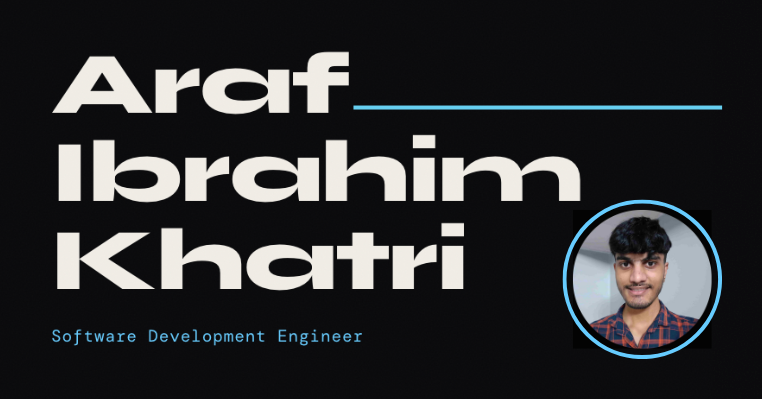
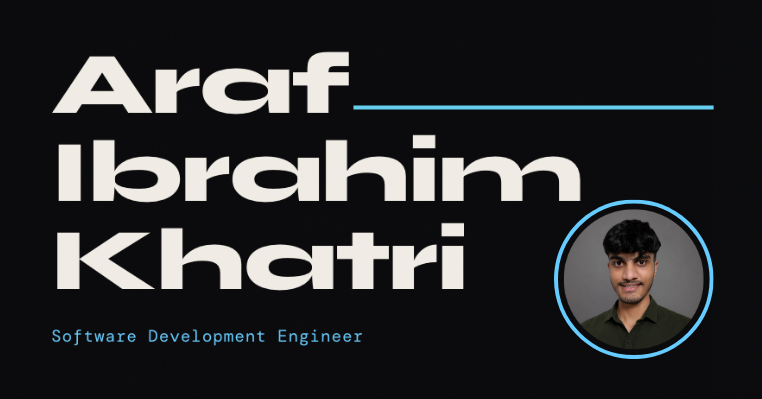
feat: update layout metadata to include a detailed description of software engineering experience

Changed region(s): [[0.7244, 0.4812, 0.9659, 0.9023]]

diff --git a/src/app/layout.tsx b/src/app/layout.tsx
@@ -37,6 +37,7 @@ export const metadata: Metadata = {
     "AWS",
     "Node.js",
     "Mumbai",
+    "Software Engineer experienced in React, Next.js, TypeScript, Python, and AWS",
     "Software Engineer",
     "Web Developer",
     "Araf Khatri Portfolio",
